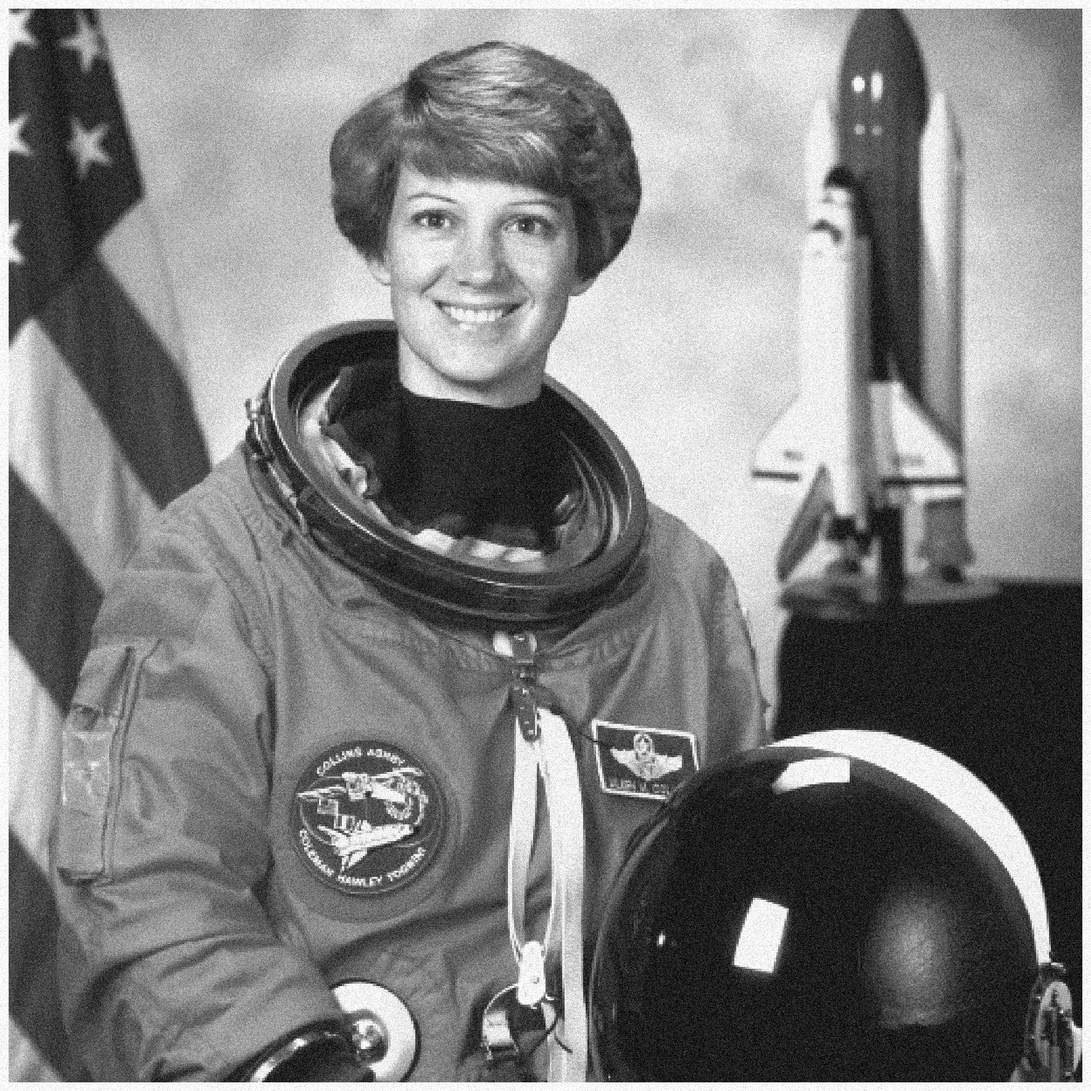
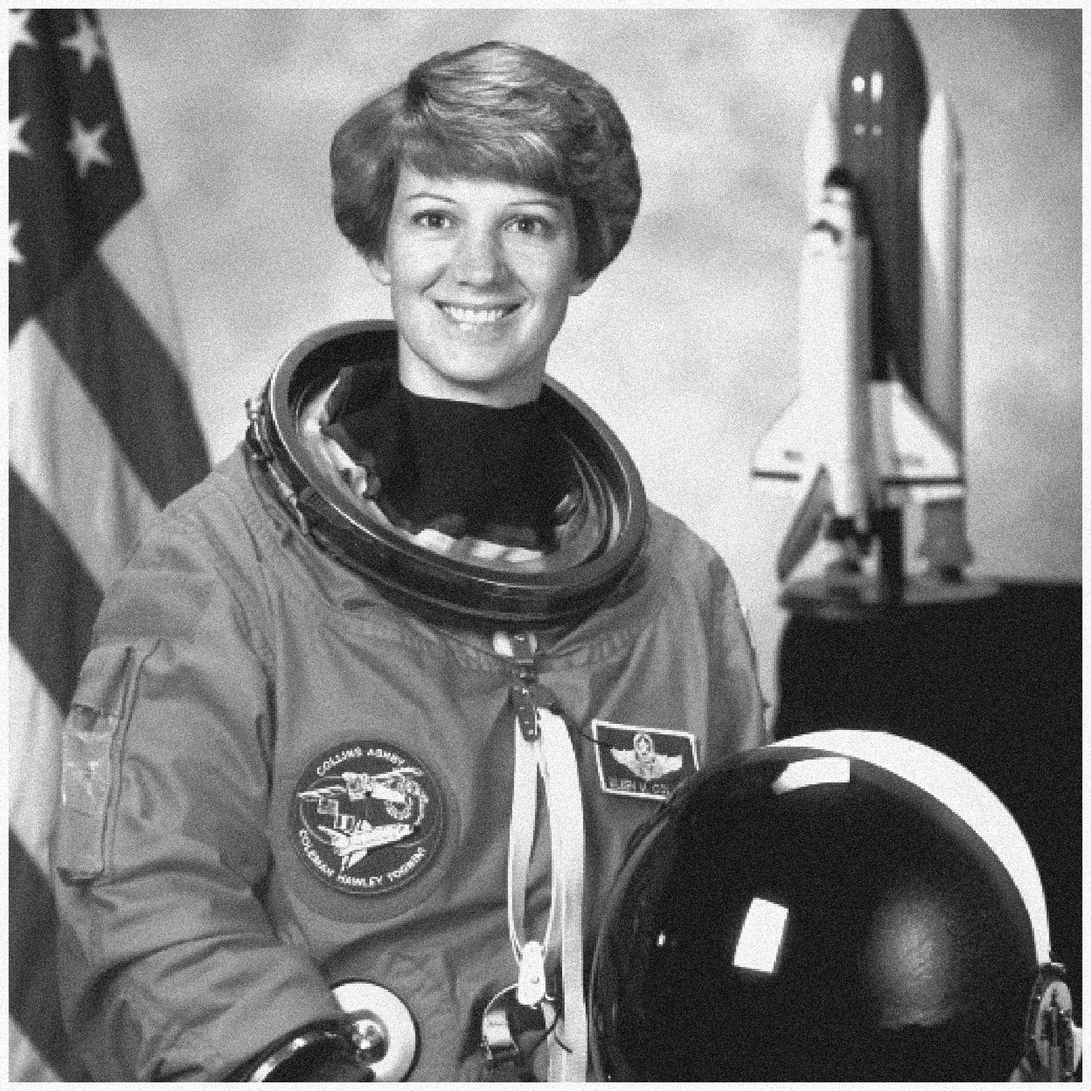
Linear Filtering (From Scratch)

diff --git a/main.py b/main.py
@@ -189,4 +189,92 @@ sp_noisy = add_salt_pepper_noise(clean, amount=0.05)  # %5 pixel
 imshow_gray(sp_noisy, "Salt & Pepper noisy image (5%)")
 save_gray(sp_noisy, "outputs/L_saltpepper_noise.png")
 
+# 2.2
 
+def cross_correlation_2d(img_u8: np.ndarray, kernel: np.ndarray) -> np.ndarray:
+
+    # convert to float
+    img = img_u8.astype(np.float64)
+    kH, kW = kernel.shape
+    H, W = img.shape
+
+    pad_h = kH // 2
+    pad_w = kW // 2
+
+    # Padding with 0
+    padded = np.pad(img, ((pad_h, pad_h), (pad_w, pad_w)), mode="constant", constant_values=0)
+
+    out = np.zeros_like(img, dtype=np.float64)
+
+    # 2D shift
+    for i in range(H):
+        for j in range(W):
+            region = padded[i:i + kH, j:j + kW]  # kH x kW window
+            out[i, j] = np.sum(region * kernel)
+
+    return out
+
+
+def to_uint8(img_f: np.ndarray) -> np.ndarray:
+
+    return np.clip(np.rint(img_f), 0, 255).astype(np.uint8)
+
+
+def make_box_kernel(size: int) -> np.ndarray:
+
+    k = np.ones((size, size), dtype=np.float64)
+    k /= k.size  # yani size*size
+    return k
+
+box3 = make_box_kernel(3)   # 3x3
+box7 = make_box_kernel(7)   # 7x7
+
+print("box3 kernel:\n", box3)
+print("box7 kernel shape:", box7.shape)
+
+
+def make_gaussian_kernel(size: int = 5, sigma: float = 1.0) -> np.ndarray:
+
+    assert size % 2 == 1, "Kernel size should be one."
+
+    k = size // 2
+    xs = np.arange(-k, k + 1)
+    ys = np.arange(-k, k + 1)
+    X, Y = np.meshgrid(xs, ys)
+
+    # 2D Gaussian
+    g = np.exp(-(X**2 + Y**2) / (2 * sigma**2))
+
+    # normalize
+    g /= g.sum()
+    return g
+
+gauss5 = make_gaussian_kernel(size=5, sigma=1.0)
+print("gaussian 5x5 kernel sum:", gauss5.sum())
+
+def apply_and_show_filter(img_u8: np.ndarray, kernel: np.ndarray, title: str, save_name: str):
+    filtered_f = cross_correlation_2d(img_u8, kernel)
+    filtered_u8 = to_uint8(filtered_f)
+
+    imshow_gray(filtered_u8, title)
+    save_gray(filtered_u8, f"outputs/{save_name}")
+    return filtered_u8
+
+
+filtered_box3 = apply_and_show_filter(
+    gauss_noisy, box3,
+    "3x3 Box filter on Gaussian noise",
+    "gauss_noisy_box3.png"
+)
+
+filtered_box7 = apply_and_show_filter(
+    gauss_noisy, box7,
+    "7x7 Box filter on Gaussian noise",
+    "gauss_noisy_box7.png"
+)
+
+filtered_gauss5 = apply_and_show_filter(
+    gauss_noisy, gauss5,
+    "5x5 Gaussian filter on Gaussian noise",
+    "gauss_noisy_gauss5.png"
+)
